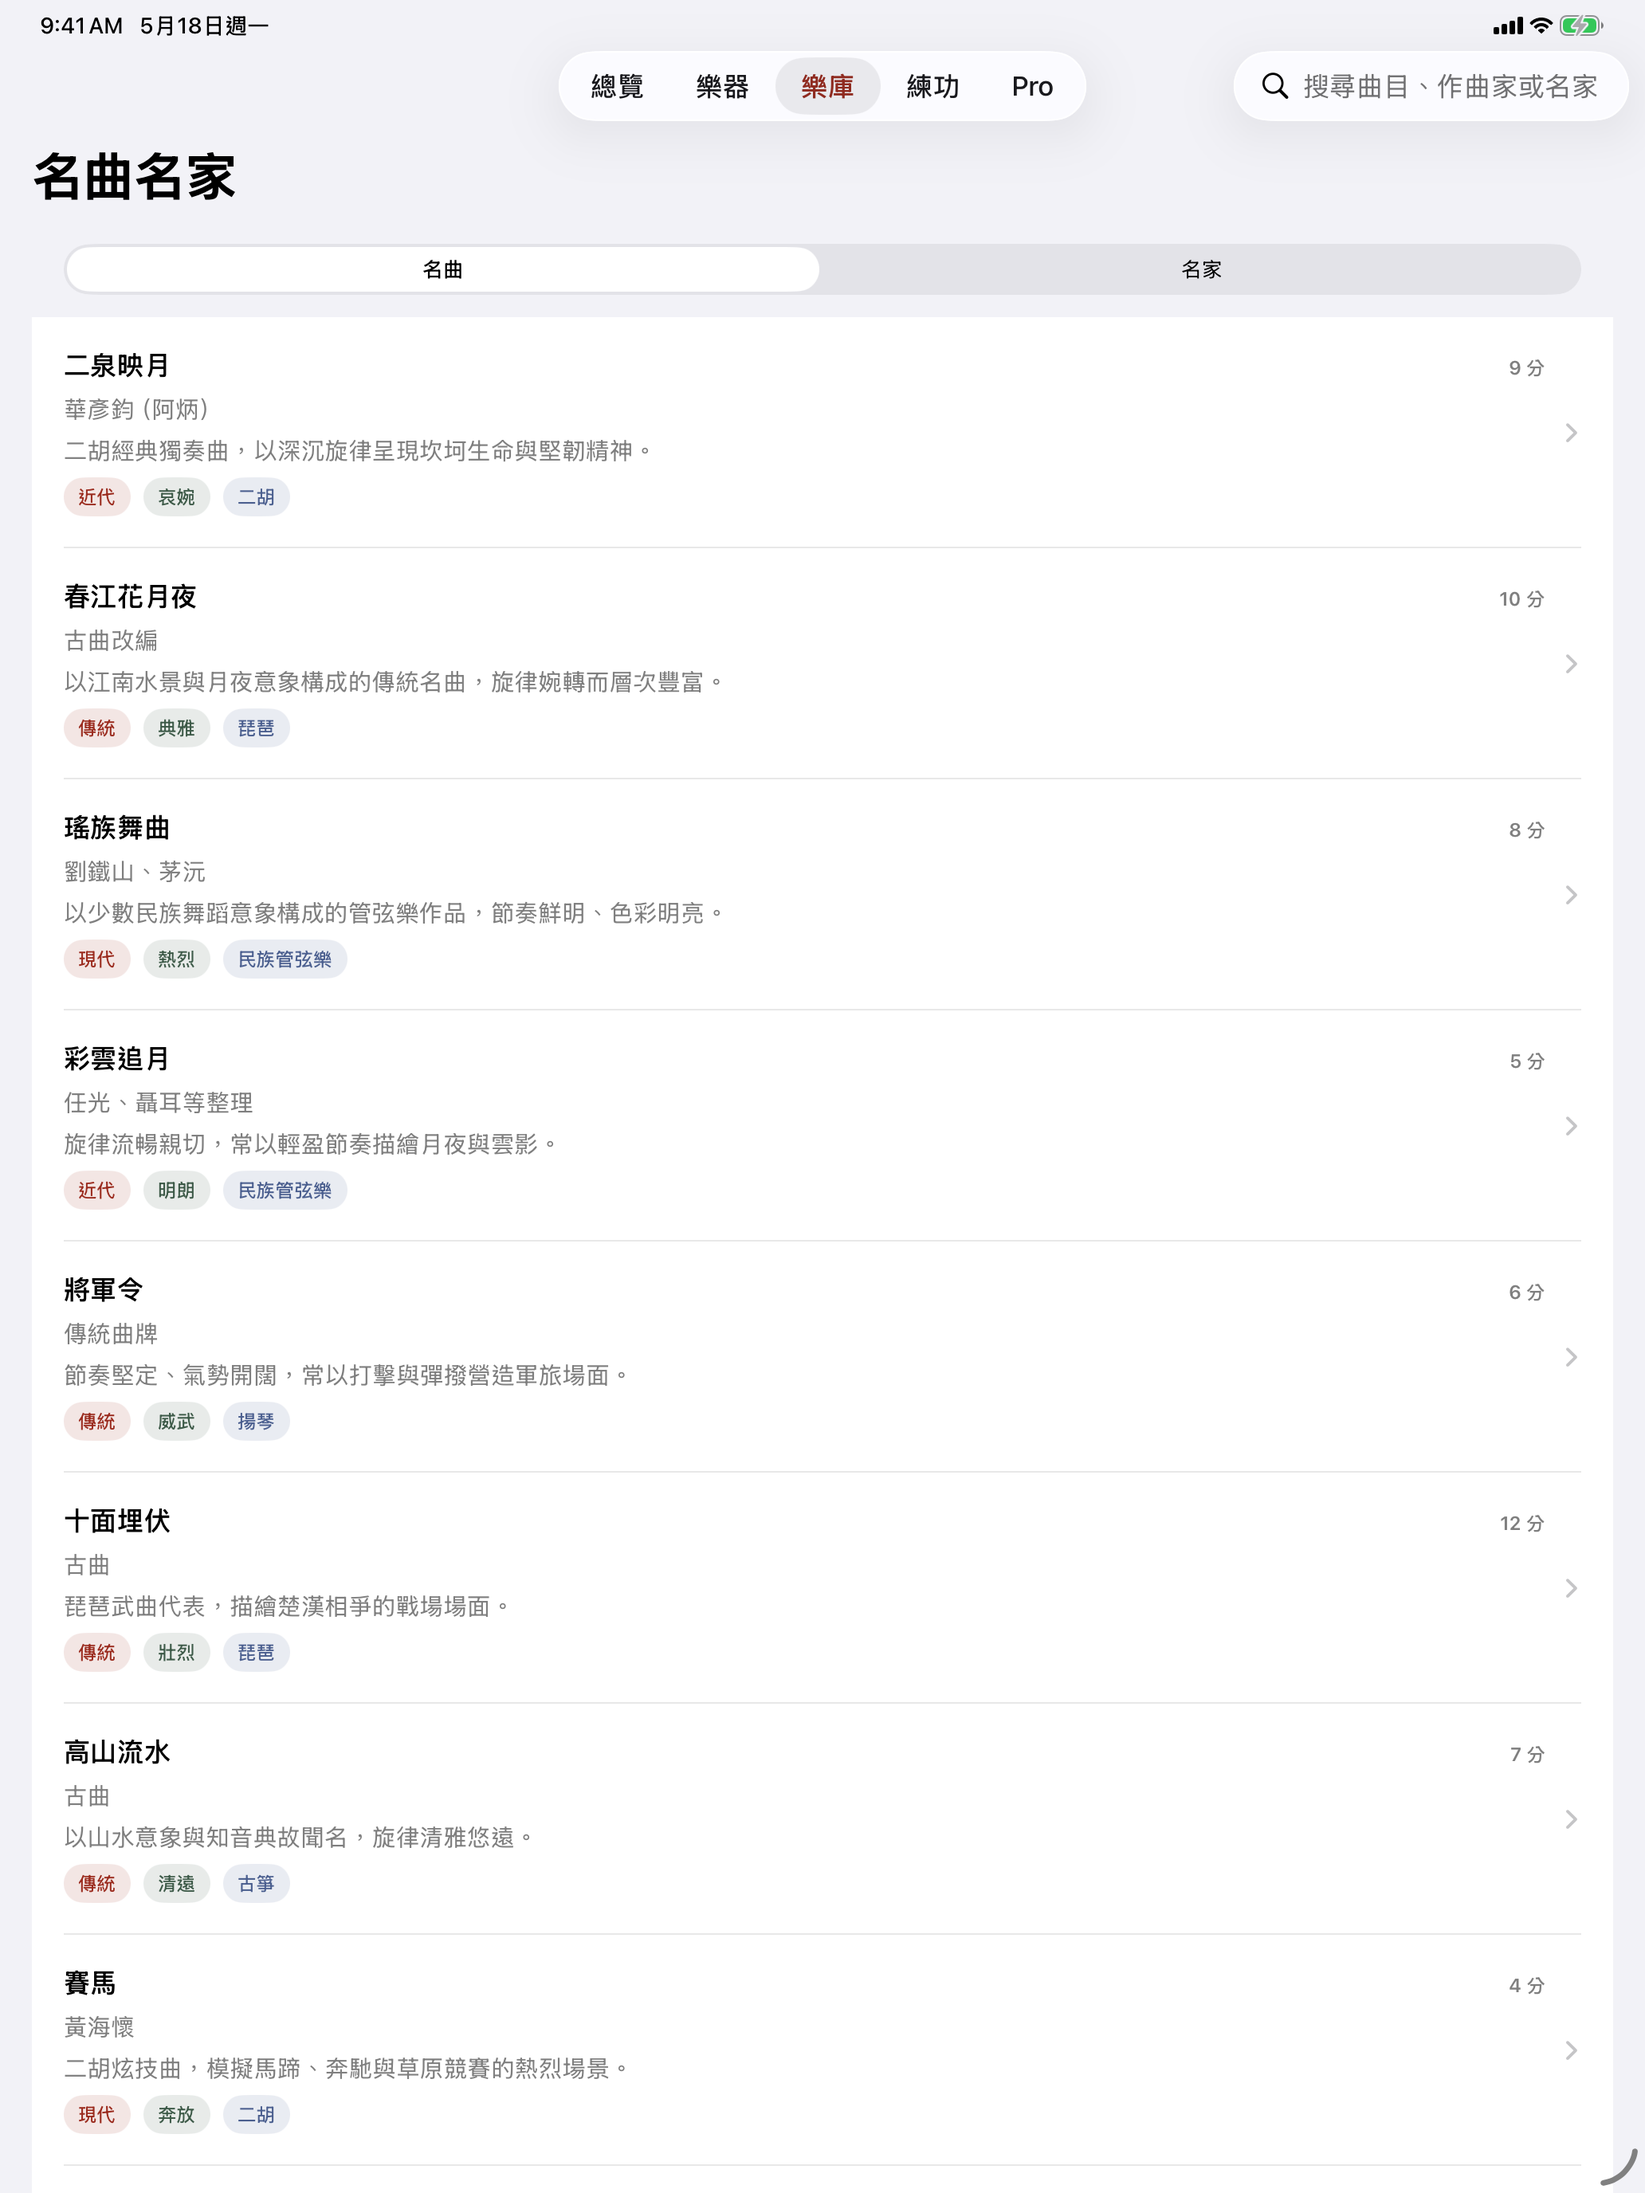
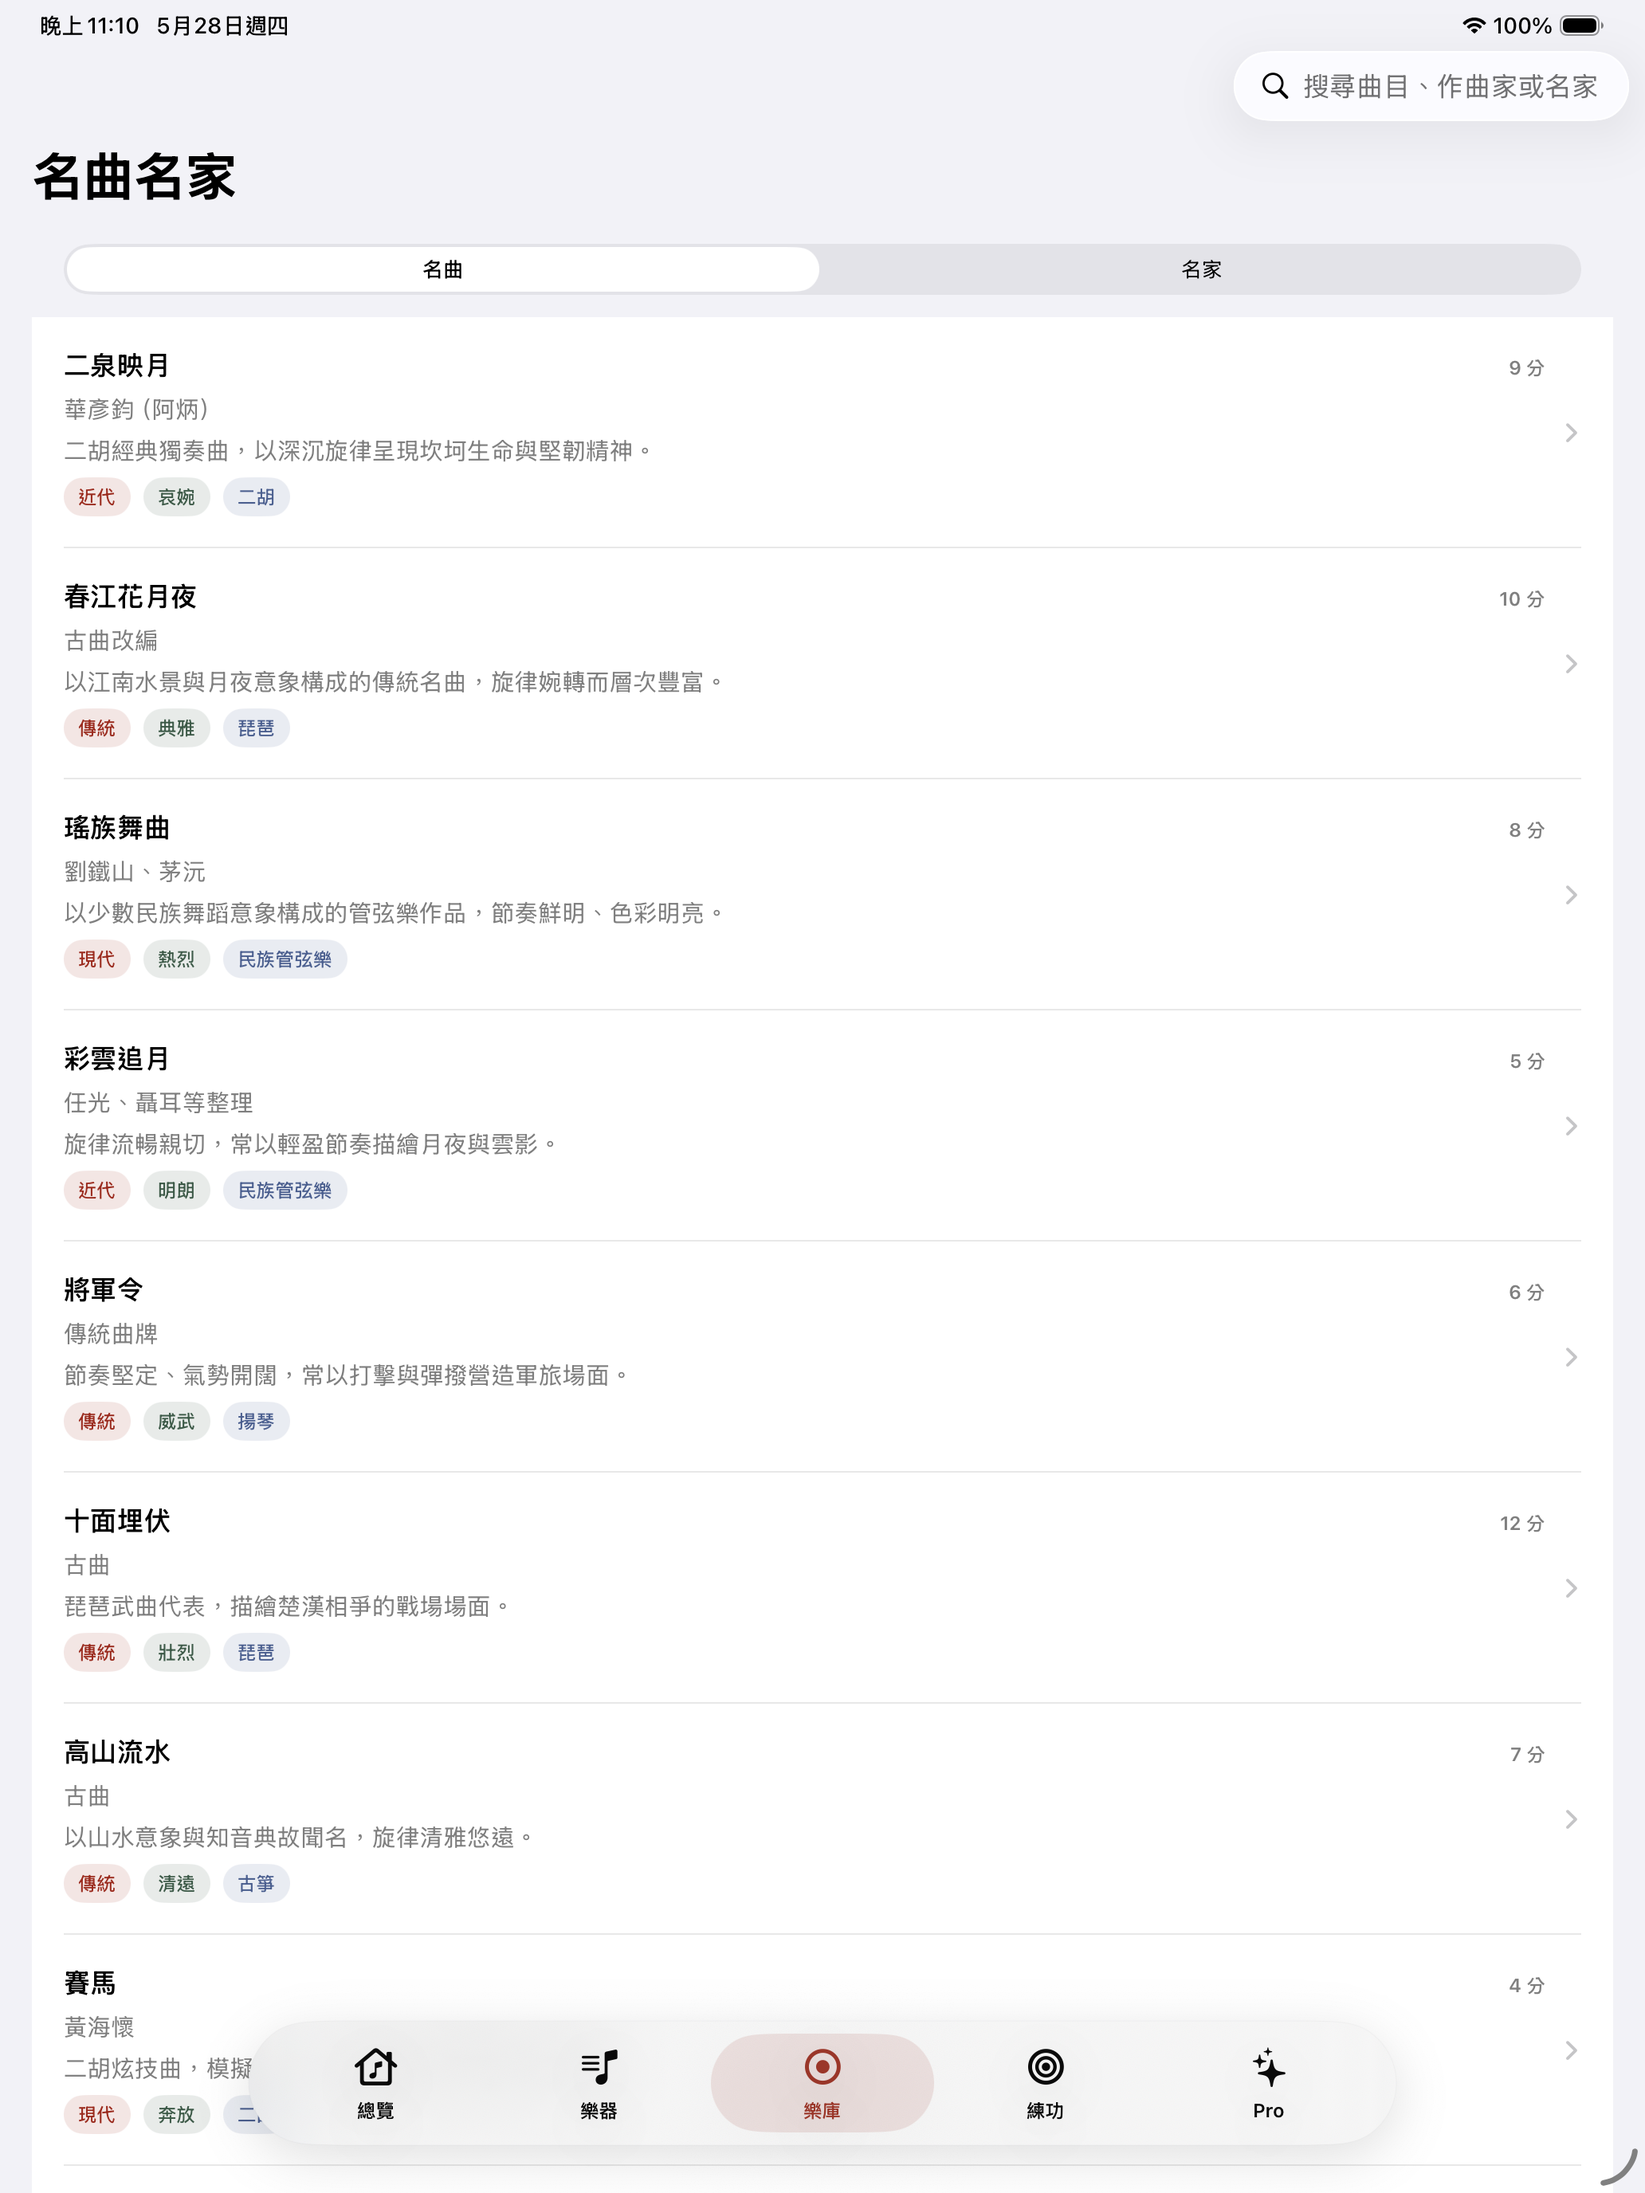
Fix iPad App Review layout

diff --git a/GuoYueZhiPu/Views/InstrumentsView.swift b/GuoYueZhiPu/Views/InstrumentsView.swift
@@ -1,14 +1,24 @@
 import SwiftUI
 
 struct InstrumentsView: View {
+    @Environment(\.horizontalSizeClass) private var horizontalSizeClass
     @EnvironmentObject private var store: OrchestraStore
     @EnvironmentObject private var progressStore: LearningProgressStore
     @State private var selectedSectionID: String?
     @State private var searchText = ""
 
-    private let columns = [
-        GridItem(.adaptive(minimum: 158), spacing: 14)
-    ]
+    private var isRegularWidth: Bool {
+        horizontalSizeClass == .regular
+    }
+
+    private var columns: [GridItem] {
+        [
+            GridItem(
+                .adaptive(minimum: isRegularWidth ? 230 : 158, maximum: isRegularWidth ? 310 : .infinity),
+                spacing: isRegularWidth ? 18 : 14
+            )
+        ]
+    }
 
     private var filteredInstruments: [Instrument] {
         let scoped = store.instruments(in: selectedSectionID)
@@ -29,7 +39,7 @@ struct InstrumentsView: View {
                 SectionFilterBar(sections: store.sections, selectedSectionID: $selectedSectionID)
 
                 ScrollView {
-                    LazyVGrid(columns: columns, spacing: 14) {
+                    LazyVGrid(columns: columns, spacing: isRegularWidth ? 18 : 14) {
                         ForEach(filteredInstruments) { instrument in
                             NavigationLink {
                                 InstrumentDetailView(instrument: instrument)
@@ -43,7 +53,7 @@ struct InstrumentsView: View {
                             .buttonStyle(.plain)
                         }
                     }
-                    .padding(16)
+                    .padding(isRegularWidth ? 24 : 16)
                 }
             }
             .background(AppTheme.background)
@@ -54,15 +64,20 @@ struct InstrumentsView: View {
 }
 
 private struct InstrumentCard: View {
+    @Environment(\.horizontalSizeClass) private var horizontalSizeClass
     let instrument: Instrument
     let section: OrchestraSection?
     let isFavorite: Bool
+
+    private var isRegularWidth: Bool {
+        horizontalSizeClass == .regular
+    }
 
     var body: some View {
         VStack(alignment: .leading, spacing: 0) {
             ZStack(alignment: .bottomLeading) {
                 InstrumentArtwork(instrument: instrument)
-                    .frame(height: 150)
+                    .frame(height: isRegularWidth ? 178 : 150)
 
                 VStack(alignment: .leading, spacing: 5) {
                     if let section {
@@ -93,7 +108,7 @@ private struct InstrumentCard: View {
                 Text(instrument.descriptionBriefZh)
                     .font(.subheadline)
                     .foregroundStyle(.primary)
-                    .lineLimit(3)
+                    .lineLimit(isRegularWidth ? 4 : 3)
                     .fixedSize(horizontal: false, vertical: true)
 
                 HStack(spacing: 6) {
@@ -103,6 +118,7 @@ private struct InstrumentCard: View {
             }
             .padding(12)
         }
+        .frame(maxWidth: .infinity, alignment: .leading)
         .background(AppTheme.surface, in: RoundedRectangle(cornerRadius: 8))
     }
 }

diff --git a/GuoYueZhiPu/Views/RootView.swift b/GuoYueZhiPu/Views/RootView.swift
@@ -58,7 +58,12 @@ private struct MainTabView: View {
 }
 
 private struct AppTabBar: View {
+    @Environment(\.horizontalSizeClass) private var horizontalSizeClass
     @Binding var selectedTab: AppTab
+
+    private var isRegularWidth: Bool {
+        horizontalSizeClass == .regular
+    }
 
     var body: some View {
         HStack(spacing: 0) {
@@ -66,17 +71,17 @@ private struct AppTabBar: View {
                 Button {
                     selectedTab = tab
                 } label: {
-                    VStack(spacing: 4) {
+                    VStack(spacing: isRegularWidth ? 6 : 4) {
                         Image(systemName: tab.systemImage)
-                            .font(.title3.weight(.semibold))
-                            .frame(height: 24)
+                            .font((isRegularWidth ? Font.title2 : Font.title3).weight(.semibold))
+                            .frame(height: isRegularWidth ? 28 : 24)
                         Text(tab.title)
-                            .font(.caption2.weight(.semibold))
+                            .font((isRegularWidth ? Font.caption : Font.caption2).weight(.semibold))
                             .lineLimit(1)
                             .minimumScaleFactor(0.8)
                     }
                     .frame(maxWidth: .infinity)
-                    .frame(height: 54)
+                    .frame(height: isRegularWidth ? 62 : 54)
                     .foregroundStyle(selectedTab == tab ? AppTheme.cinnabar : .primary)
                     .background {
                         if selectedTab == tab {
@@ -99,9 +104,11 @@ private struct AppTabBar: View {
                 .stroke(Color(.separator).opacity(0.32), lineWidth: 0.5)
         }
         .shadow(color: .black.opacity(0.12), radius: 16, y: 8)
-        .padding(.horizontal, 14)
+        .frame(maxWidth: isRegularWidth ? 720 : .infinity)
+        .padding(.horizontal, isRegularWidth ? 32 : 14)
         .padding(.top, 8)
-        .padding(.bottom, 6)
+        .padding(.bottom, isRegularWidth ? 10 : 6)
+        .frame(maxWidth: .infinity)
     }
 }
 

diff --git a/GuoYueZhiPu/Views/DashboardView.swift b/GuoYueZhiPu/Views/DashboardView.swift
@@ -144,13 +144,19 @@ struct DashboardView: View {
                             .background(Color(hex: section.colorHex), in: Circle())
 
                         VStack(alignment: .leading, spacing: 6) {
-                            HStack {
-                                Text(section.nameZh)
-                                    .font(.headline)
-                                Text(section.nameEn)
-                                    .font(.caption)
-                                    .foregroundStyle(.secondary)
-                                Spacer()
+                            HStack(alignment: .firstTextBaseline, spacing: 10) {
+                                VStack(alignment: .leading, spacing: 2) {
+                                    Text(section.nameZh)
+                                        .font(.headline)
+                                    Text(section.nameEn)
+                                        .font(.caption)
+                                        .foregroundStyle(.secondary)
+                                        .lineLimit(1)
+                                        .minimumScaleFactor(0.85)
+                                }
+
+                                Spacer(minLength: 12)
+
                                 Text("\(section.instrumentCount) 件")
                                     .font(.caption.weight(.semibold))
                                     .foregroundStyle(Color(hex: section.colorHex))

diff --git a/GuoYueZhiPu/Views/Components.swift b/GuoYueZhiPu/Views/Components.swift
@@ -61,6 +61,7 @@ struct AppSurface<Content: View>: View {
 
     var body: some View {
         content
+            .frame(maxWidth: .infinity, alignment: .leading)
             .padding(18)
             .background(AppTheme.surface, in: RoundedRectangle(cornerRadius: 8))
     }
